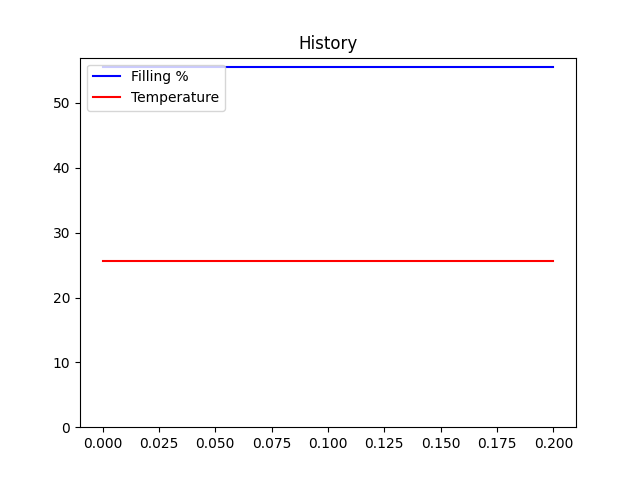
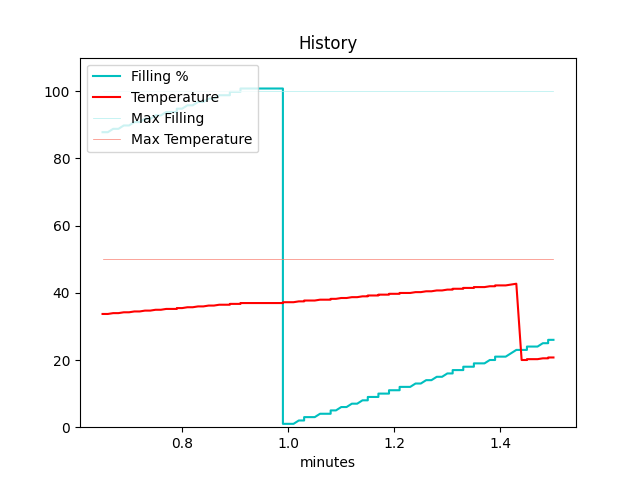
feat(serial communication): added serial commmunication in pc module

diff --git a/src/pc/operatorDashboard.py b/src/pc/operatorDashboard.py
@@ -2,14 +2,32 @@ import threading
 import serial
 import time
 from tkinter import *
-from PIL import Image, ImageTk
+from PIL import Image, ImageTk, ImageFile
 import matplotlib.pyplot as plt
 import numpy as np
+ImageFile.LOAD_TRUNCATED_IMAGES = True
 
-# arduino = serial.Serial(port='COM4', baudrate=9600, timeout=.1)
+GET_DATA = '0'
+EMPTY = '1'
+RESTORE = '2'
 
-UPDATE_TIME = 1000
-SAVE_TIME = 6
+UPDATE_TIME = 500	#milliseconds
+SAVE_TIME = 3		#seconds
+
+history_img_path = "./src/pc/history.png"
+history_text_path = "./src/pc/history.txt"
+
+#---------------Serial_communication---------------
+
+arduino = serial.Serial(port='COM4', baudrate=9600, timeout=.1)
+
+def serialSendIntruction(x):
+	arduino.write(bytes(x, 'utf-8'))
+
+def serialGetResult():
+	time.sleep(0.05) 
+	data = arduino.readline() 
+	return str(data)
 
 #-------------GUI_initializzaiton------------------
 
@@ -26,8 +44,9 @@ root.rowconfigure(2, weight=1)
 root.resizable(False, False)
 
 # clears history file
-f = open('./src/pc/history.txt', 'w')
-f.close()
+with open(history_text_path, 'w') as f:
+	pass
+# f.close()
 
 
 fillingLabel = Label()
@@ -35,15 +54,15 @@ temperatureLabel = Label()
 fillingLabel.grid(column=0, row=0)
 temperatureLabel.grid(column=1, row=0)
 
-filling = 55.5
-temp = 25.6
+filling = 0.0
+temperature = 25.0
 
 #-----------Data_management-------------
 
 # prints current values of sensors
 def printData():
 	fillingStr = "Filling: " + str(filling) + "%"
-	tempStr = "Temperature: " + str(temp) + "°"
+	tempStr = "Temperature: " + str(temperature) + "°"
 	
 	fillingLabel.config(text=fillingStr)
 	temperatureLabel.config(text=tempStr)
@@ -54,11 +73,31 @@ image_label.grid(column=0, row=1, columnspan=2)
 # prints current history graph
 def updateImage():
 	global img
-	img = ImageTk.PhotoImage(Image.open("./src/pc/history.png"))
+	try:
+		# with Image.open(history_img_path) as photo:
+		photo = Image.open(history_img_path)
+		img = ImageTk.PhotoImage(photo)
+		photo.close()
+	except IOError:
+		pass	
 	image_label.config(image=img)
+
+# unpack singularly filling and temperature values
+def unpackData(values):
+	global filling
+	global temperature
+	rawValues = values.replace("'", "").replace("b", "").replace("\\r\\n", "").split(" ")
+	floatValues = [float(x) for x in rawValues if x.isnumeric() or x.replace('.', '', 1).isnumeric()]
+	
+	if len(floatValues) == 2:
+		filling = floatValues[0]
+		temperature = floatValues[1]
 
 # calls periodically the functions to print values and graph
 def updateData():
+	serialSendIntruction(GET_DATA)
+	values = serialGetResult()
+	unpackData(values)
 	printData()
 	updateImage()
 	root.after(UPDATE_TIME, updateData)
@@ -67,11 +106,11 @@ def updateData():
 
 # function to perform when pressed 'empty' button
 def empty():
-	print('EMPTY')
+	serialSendIntruction(EMPTY)
 
 # function to perform when pressed 'restore' button
 def restore():
-	print('RESTORE')
+	serialSendIntruction(RESTORE)
 
 emptyButton = Button(text='Empty', command=empty, background='lightGray')
 emptyButton.grid(column=0, row=2)
@@ -83,9 +122,14 @@ restoreButton.grid(column=1, row=2)
 
 # saves history data on file
 def saveHistory(data):
-	f = open('./src/pc/history.txt', 'a')
-	f.write(data)
-	f.close()
+	with open(history_text_path, 'r+')as f: 
+		lines = f.readlines()
+		n = min(len(lines) + 1, 150)
+		lines.insert(0, data)
+		f.seek(0, 0)
+		for line in lines[0:n]:
+			f.write(line)
+	# f.close()
 
 # reads history data from file
 def readHistory():
@@ -93,50 +137,53 @@ def readHistory():
 	fillA = list()
 	tempA = list()
 	
-	f = open('./src/pc/history.txt', 'r')
-	tmp = f.read()
-	f.close()
-	tmps = tmp.split(" ")
-	npTmp = np.array(tmps)
-	for i in range(npTmp.size):
-		if i == npTmp.size - 1:
-			pass
-		elif i % 4 == 0:
-			timeA.append(float(npTmp[i]))
-		elif i % 4 == 1:
-			fillA.append(float(npTmp[i]))
-		elif i % 4 == 2:
-			tempA.append(float(npTmp[i]))
-		elif i % 4 == 3:
-			pass
+	with open(history_text_path, 'r') as f:
+		tmp = f.read()
+	# f.close()
+	rawTmp = tmp.replace("\n", "").split(" ")
+	for i in range(rawTmp.count("")):
+		rawTmp.remove("")
+	for i in range(len(rawTmp)):
+		if i % 3 == 0:
+			timeA.append(float(rawTmp[i]))
+		elif i % 3 == 1:
+			fillA.append(float(rawTmp[i]))
+		elif i % 3 == 2:
+			tempA.append(float(rawTmp[i]))
 	return timeA, fillA, tempA 
 
 # generate a graph with history data and saves on a png
 def generateGraph(time, fill, temp):
-	plt.title("History")
-	plt.plot(time, fill, 'b', label='Filling %')
-	plt.plot(time, temp, 'r', label='Temperature')
-	plt.ylim(ymin=0)
-	plt.legend(loc="upper left")
-	plt.savefig('src/pc/history.png')
-	plt.close()
+	try:
+		maxFill = [100]*len(fill)
+		maxTemp = [50]*len(temp)
+		
+		plt.title("History")
+		plt.plot(time, fill, 'c', label='Filling %')
+		plt.plot(time, temp, 'r', label='Temperature')
+		plt.plot(time, maxFill, 'paleturquoise', label='Max Filling', linewidth=0.5)
+		plt.plot(time, maxTemp, 'salmon', label='Max Temperature', linewidth=0.5)
+		plt.ylim(ymin=0, ymax=110)
+		plt.xlabel("minutes")
+		plt.legend(loc="upper left")
+		plt.savefig(history_img_path)
+		plt.close()
+
+	except MemoryError:
+		pass
 	
 # history data loop, which saves data
 def saveData():
 	t0 = time.time()
 	while(True):
 		ts = time.time()
-		# global filling
-		# global temp
-		string = str("{:.2f}".format((time.time() - t0)/60)) + " " + str(filling) + " " + str(temp) + " \n "
+		string = str("{:.2f}".format((time.time() - t0)/60)) + " " + str(filling) + " " + str(temperature) + " \n"
 		saveHistory(string)
 		timeA, fillA, tempA = readHistory()
 		generateGraph(timeA, fillA, tempA)
 		while(time.time() - ts < SAVE_TIME):
 			pass
-		# filling = filling + 0.5
-		# temp = temp + 0.5
-
+		
 #-------------Main_code-----------------
 
 saveDataThread = threading.Thread(target=saveData)
